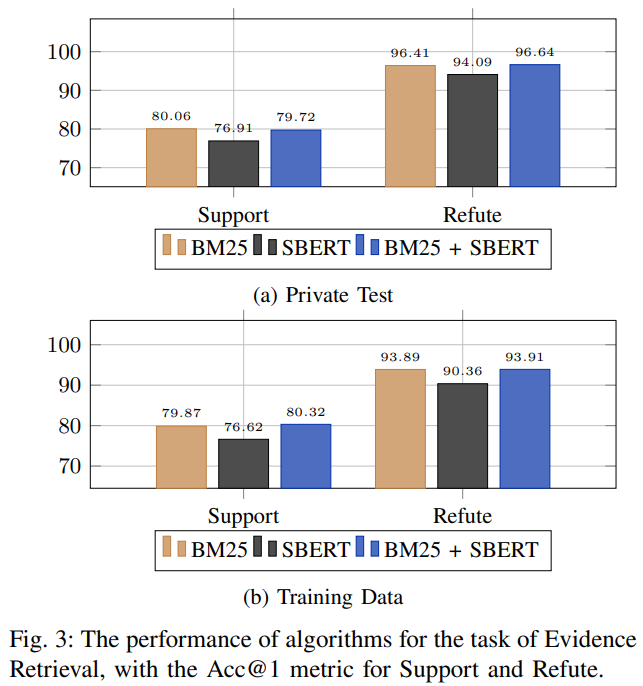
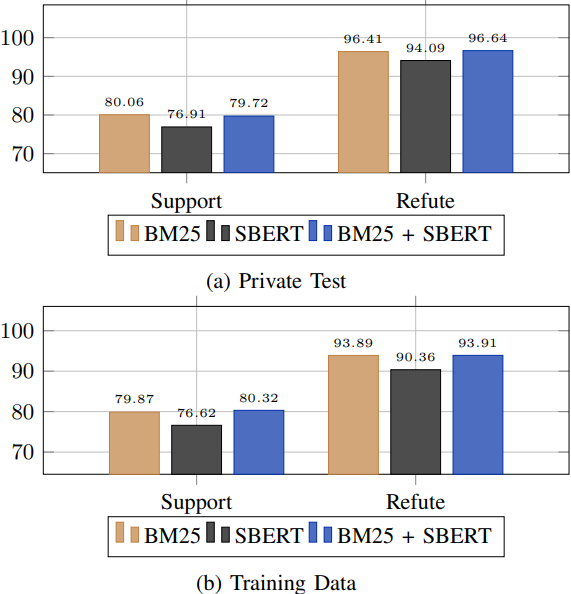
first commit

Changed region(s): [[0.0, 0.0, 1.0, 1.0]]

diff --git a/README.md b/README.md
@@ -6,8 +6,26 @@ ViNSV is a system developed and designed to address the challenges of fact extra
 During a private evaluation conducted on the ISE-DSC01 dataset, the ViNSV system demonstrated an impressive Strict Accuracy of 76.33%. This outstanding performance earned the system a [top 4 ranking](https://codalab.lisn.upsaclay.fr/competitions/15497#results), showcasing its remarkable competitiveness and effectiveness.
 
 ## ViNSV
+<p align="center">
+    <img src="Pic/CLS.png" width="1000">
+        <br>
+    <em>Figure 1: Classification Pipeline.</em>
+</p>
+
+<p align="center">
+    <img src="Pic/Evidence Retrieval.png" width="1000">
+        <br>
+    <em>Figure 2: Evidence Retrieval Pipeline.</em>
+</p>
+
 In addition, we have also demonstrated that the ensemble model provides higher performance. The ensemble model's performance was rigorously evaluated against the standalone BM25 and SBERT models, utilizing Top-1 Accuracy (Acc@1) as the primary metric for Support (S) and Refute (R) evidence categories (Fig. 3).
-![multi-stage](Pic/multi-stage.png)
+
+<p align="center">
+    <img src="Pic/multi-stage.png" width="1000">
+        <br>
+    <em>Figure 3: The performance of algorithms for the task of Evidence
+Retrieval, with the Acc@1 metric for Support and Refute.</em>
+</p>
 
 
 ---
